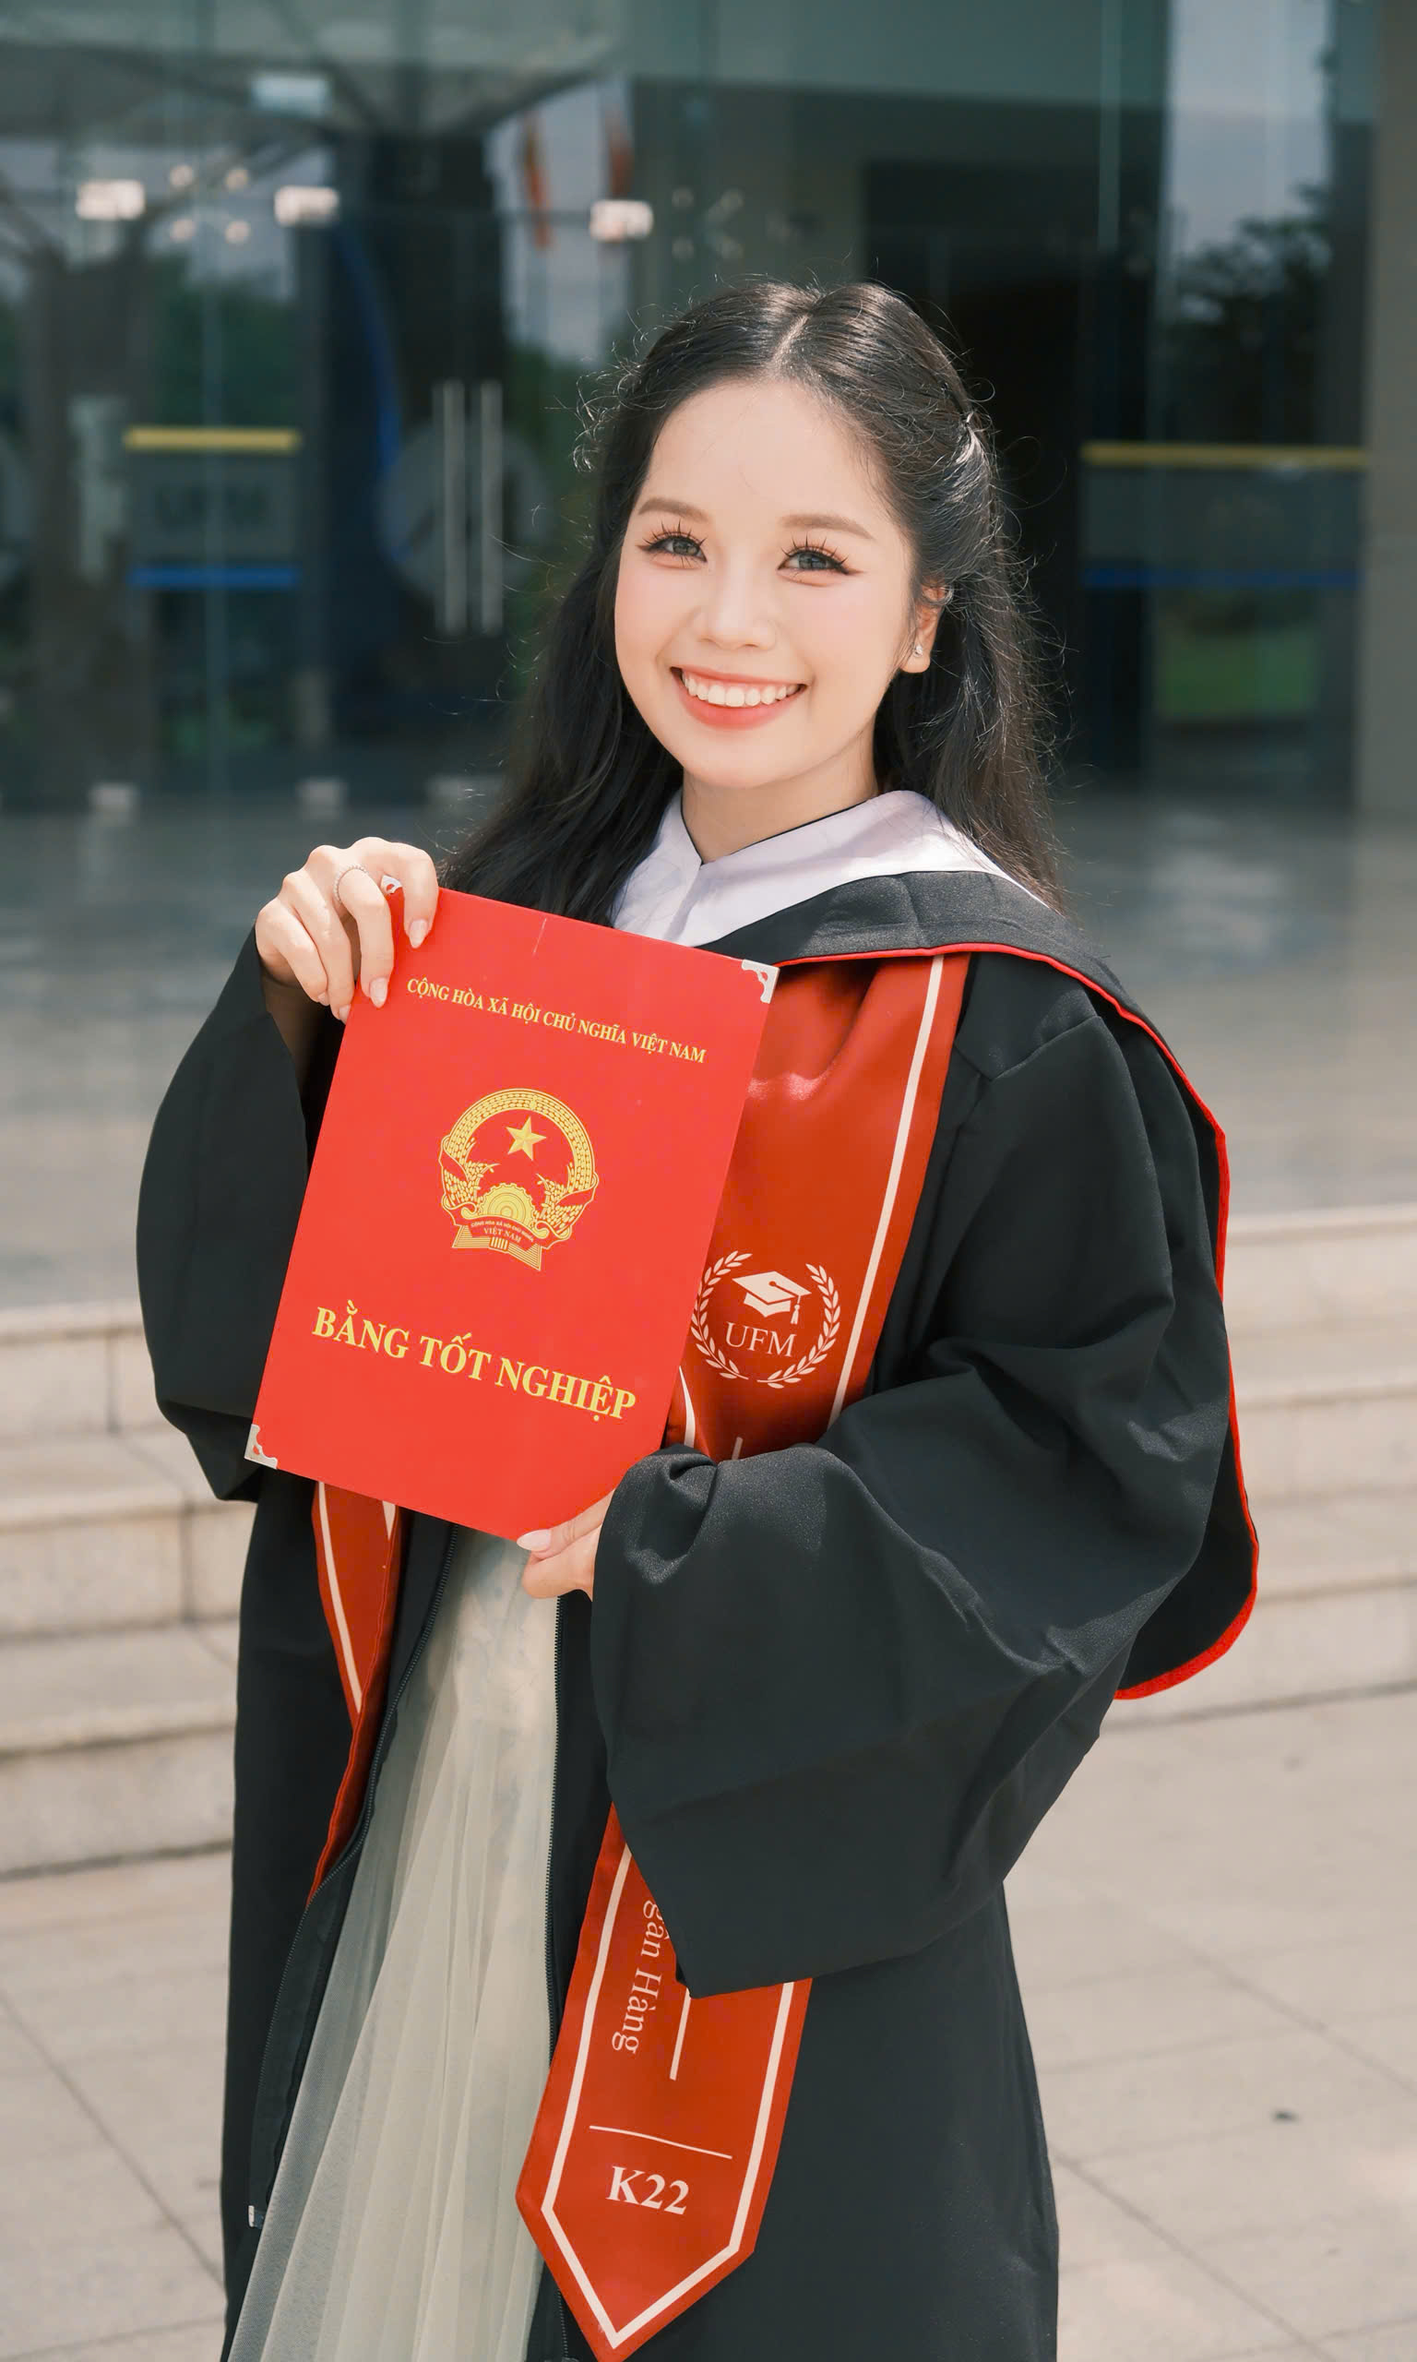
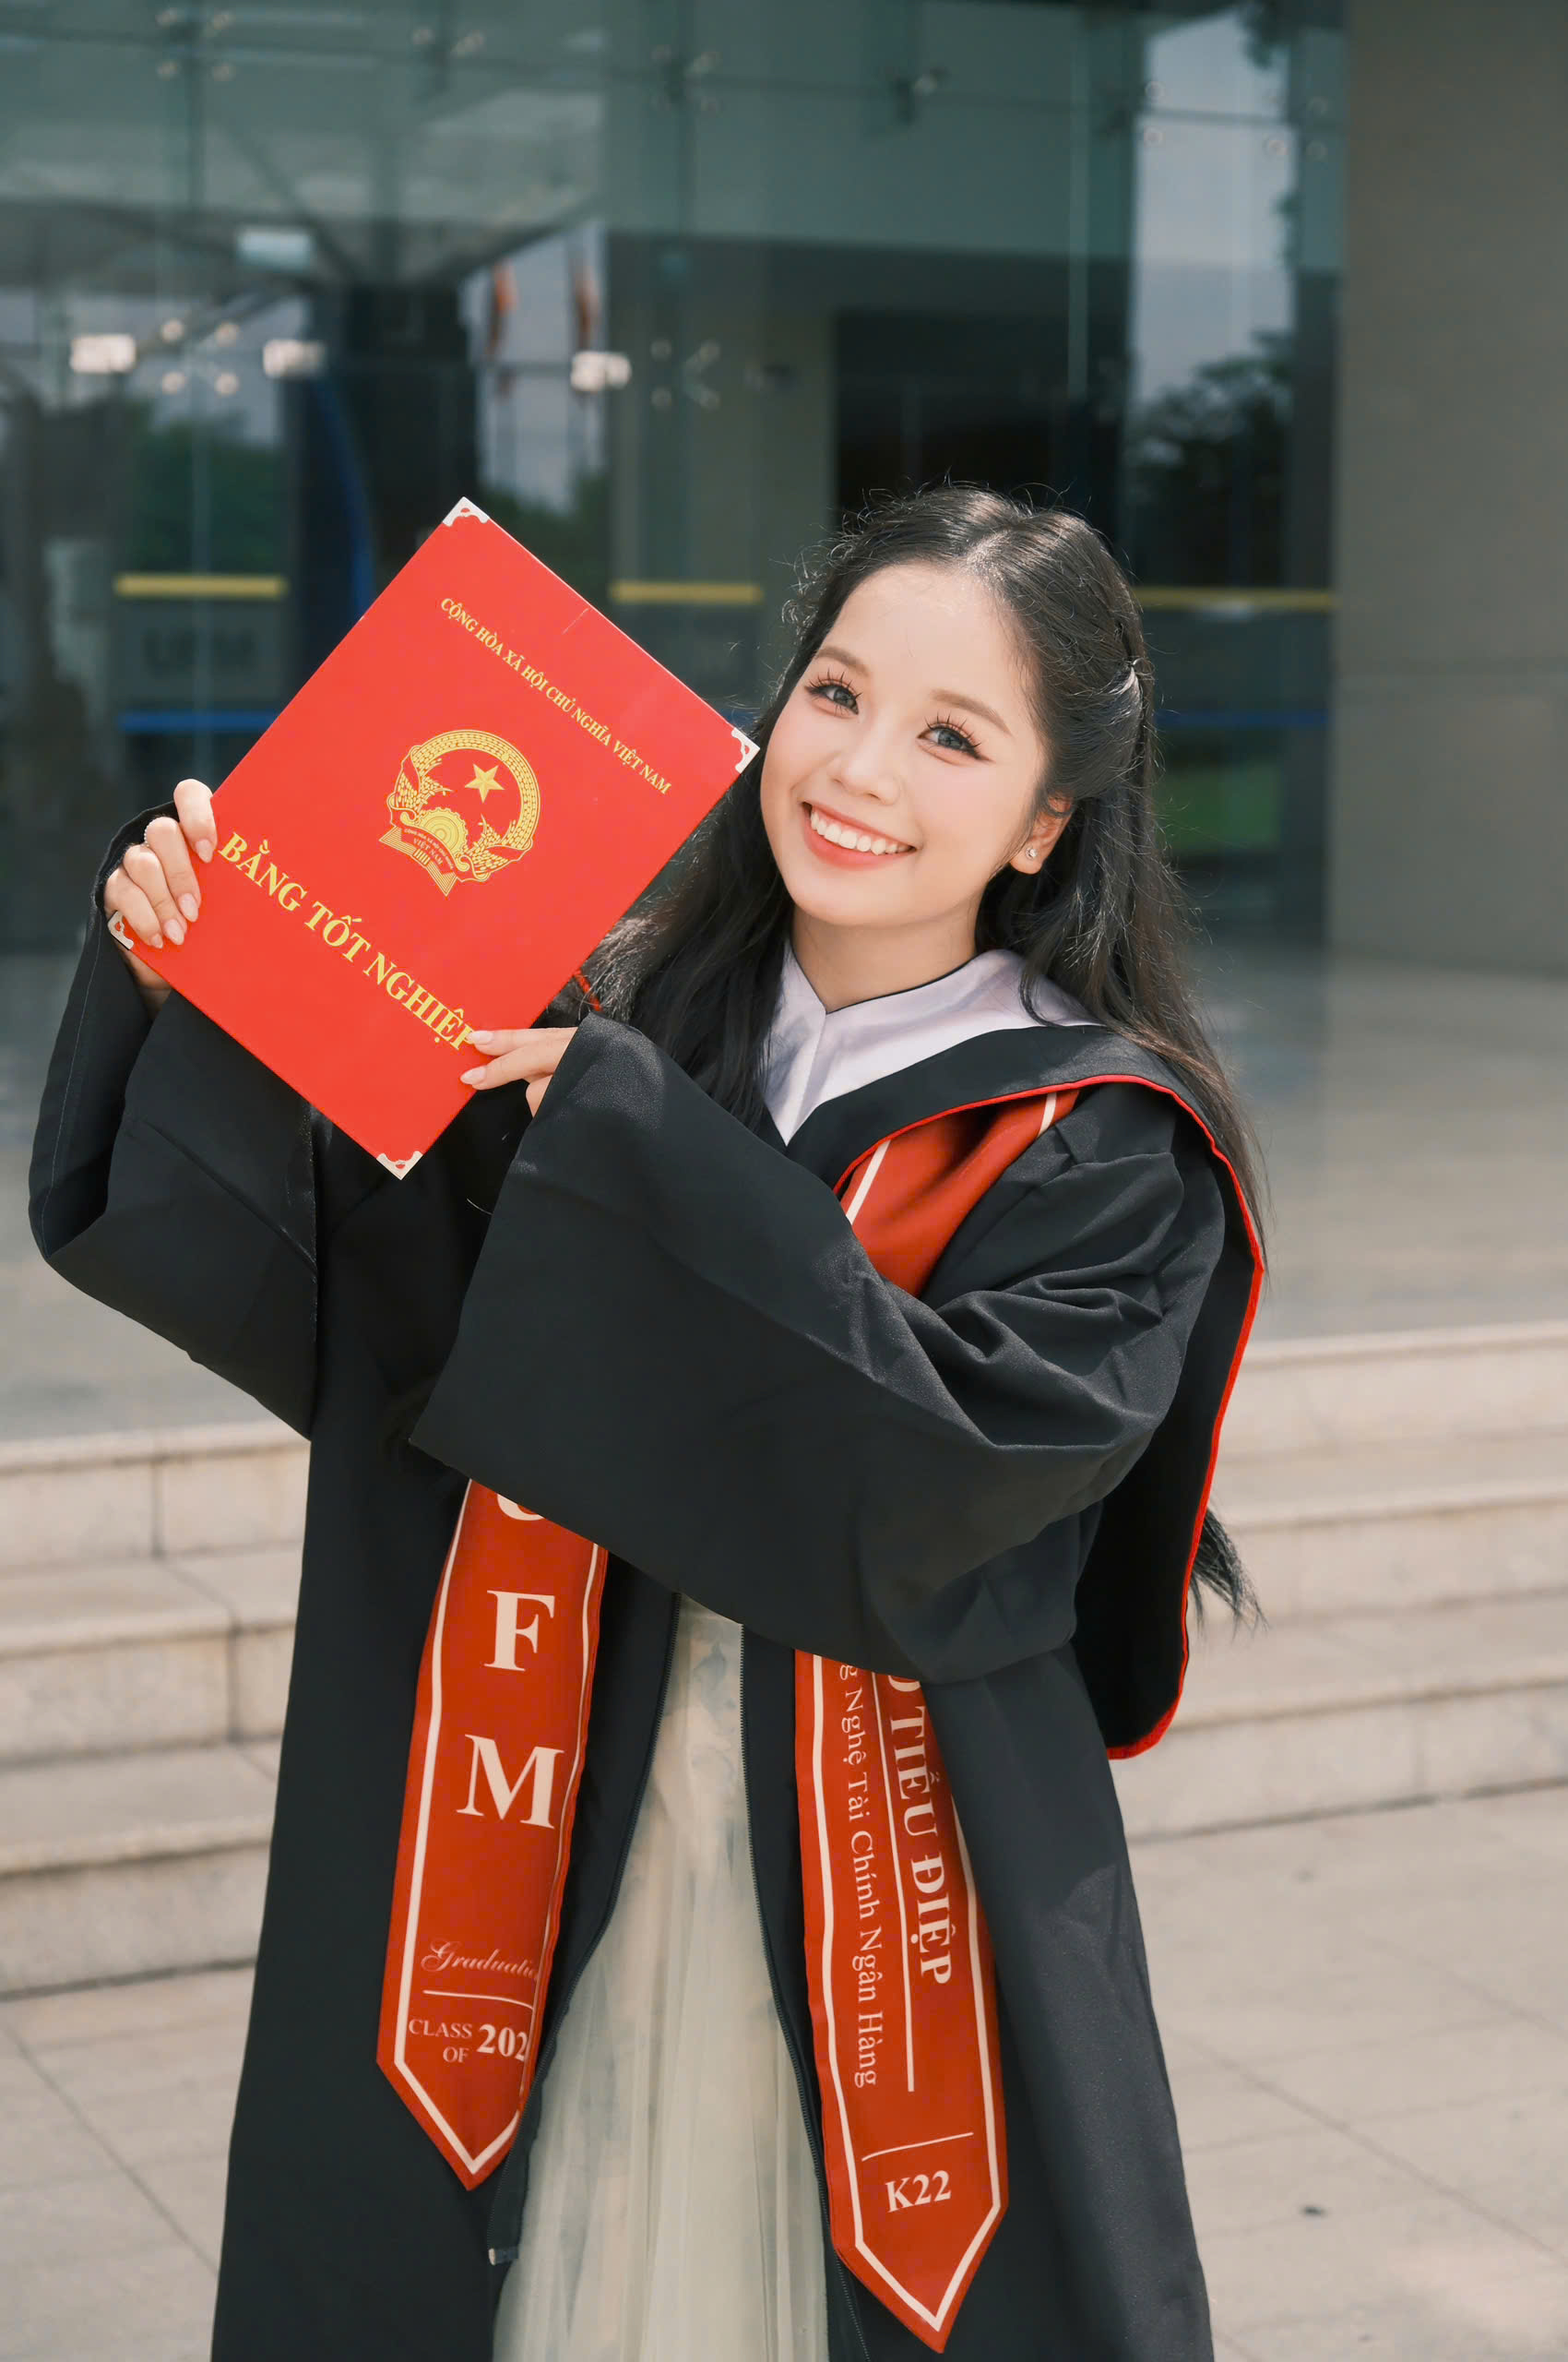
hi

diff --git a/index.html b/index.html
@@ -3870,14 +3870,14 @@
                           d="M22 16.92v3a2 2 0 0 1-2.18 2 19.79 19.79 0 0 1-8.63-3.07 19.5 19.5 0 0 1-6-6 19.79 19.79 0 0 1-3.07-8.67A2 2 0 0 1 4.11 2h3a2 2 0 0 1 2 1.72 12.84 12.84 0 0 0 .7 2.81 2 2 0 0 1-.45 2.11L8.09 9.91a16 16 0 0 0 6 6l1.27-1.27a2 2 0 0 1 2.11-.45 12.84 12.84 0 0 0 2.81.7A2 2 0 0 1 22 16.92z" />
                       </svg>
                     </a>
-                    <a href="https://www.facebook.com/beosthembundaumamtom" target="_blank" rel="noopener noreferrer" class="social-btn"
-                      title="Facebook">
+                    <a href="https://www.facebook.com/beosthembundaumamtom" target="_blank" rel="noopener noreferrer"
+                      class="social-btn" title="Facebook">
                       <svg width="15" height="15" viewBox="0 0 24 24" fill="currentColor">
                         <path d="M18 2h-3a5 5 0 0 0-5 5v3H7v4h3v8h4v-8h3l1-4h-4V7a1 1 0 0 1 1-1h3z" />
                       </svg>
                     </a>
-                    <a href="https://www.instagram.com/tidiizme14/" target="_blank" rel="noopener noreferrer" class="social-btn"
-                      title="Instagram">
+                    <a href="https://www.instagram.com/tidiizme14/" target="_blank" rel="noopener noreferrer"
+                      class="social-btn" title="Instagram">
                       <svg width="15" height="15" viewBox="0 0 24 24" fill="none" stroke="currentColor"
                         stroke-width="2">
                         <rect x="2" y="2" width="20" height="20" rx="5" ry="5" />
@@ -3922,7 +3922,7 @@
 
 
                   <div class="form-group">
-                    <label class="form-label">Bạn sẽ đến chung vui chứ?</label>
+                    <label class="form-label">Bạn sẽ đến chứ?</label>
                     <div class="attendance-chips">
                       <label>
                         <input type="radio" name="attendanceStatus" value="Chắc chắn tham gia" class="chip-item"
